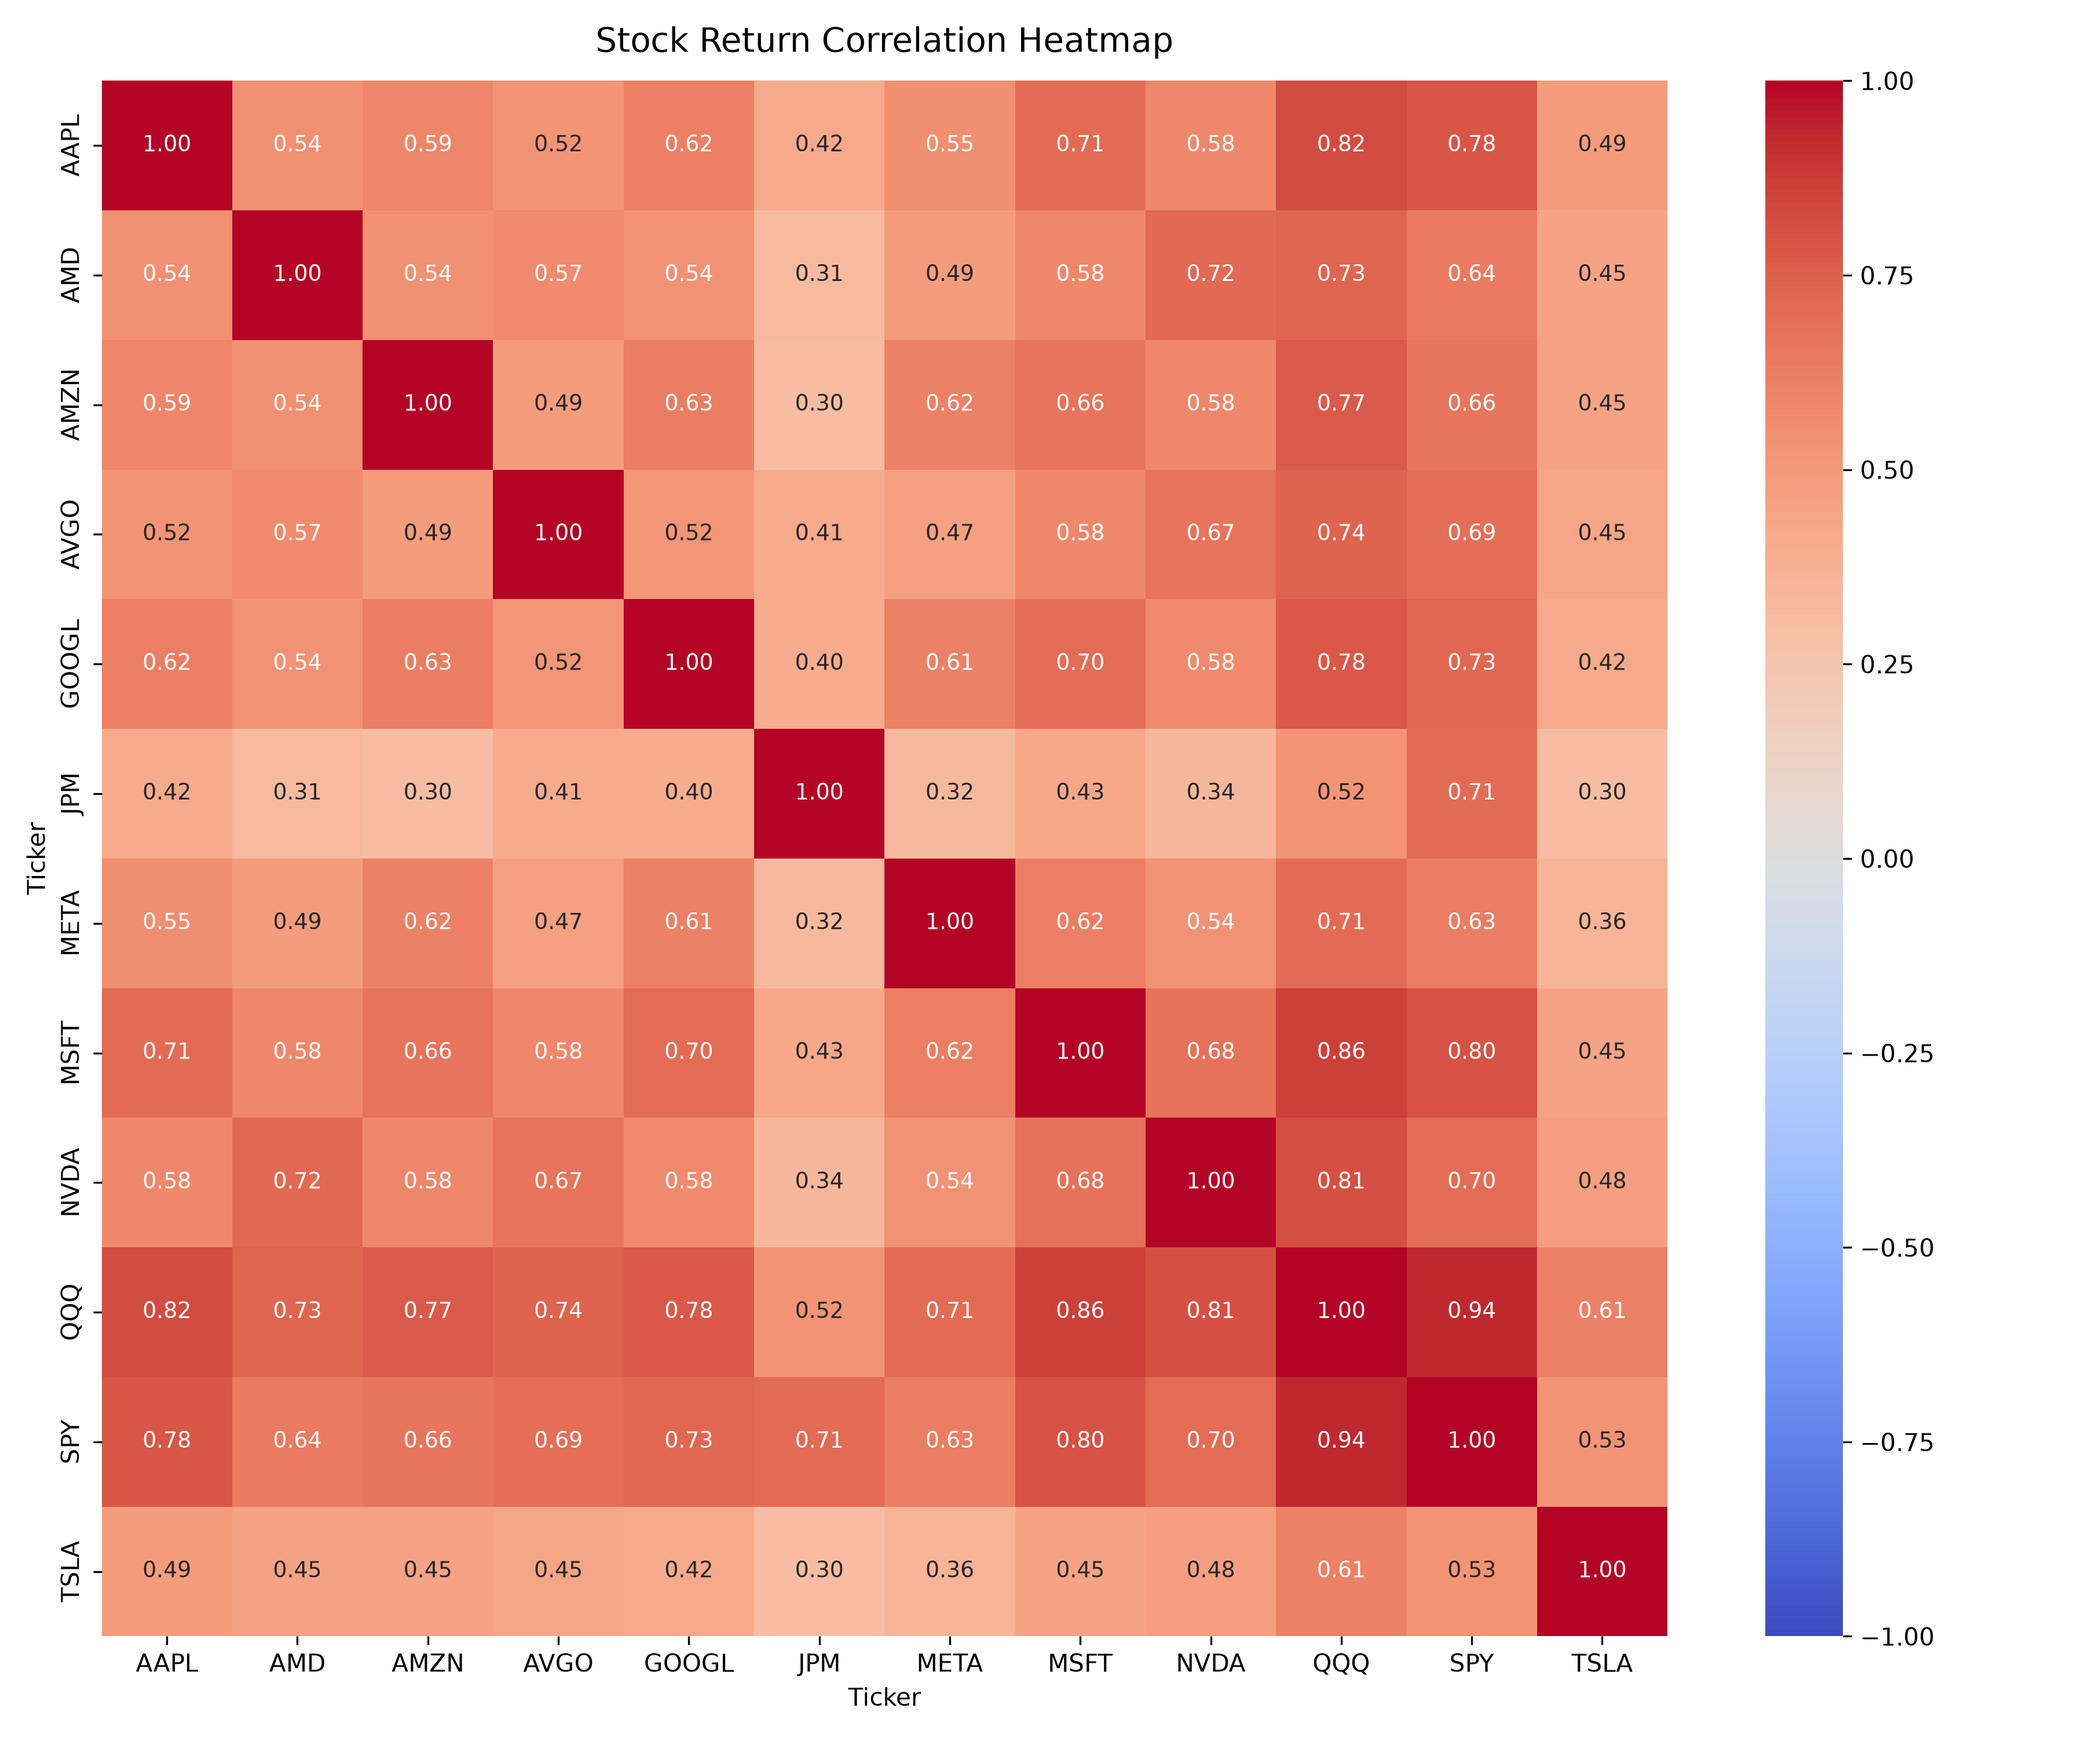
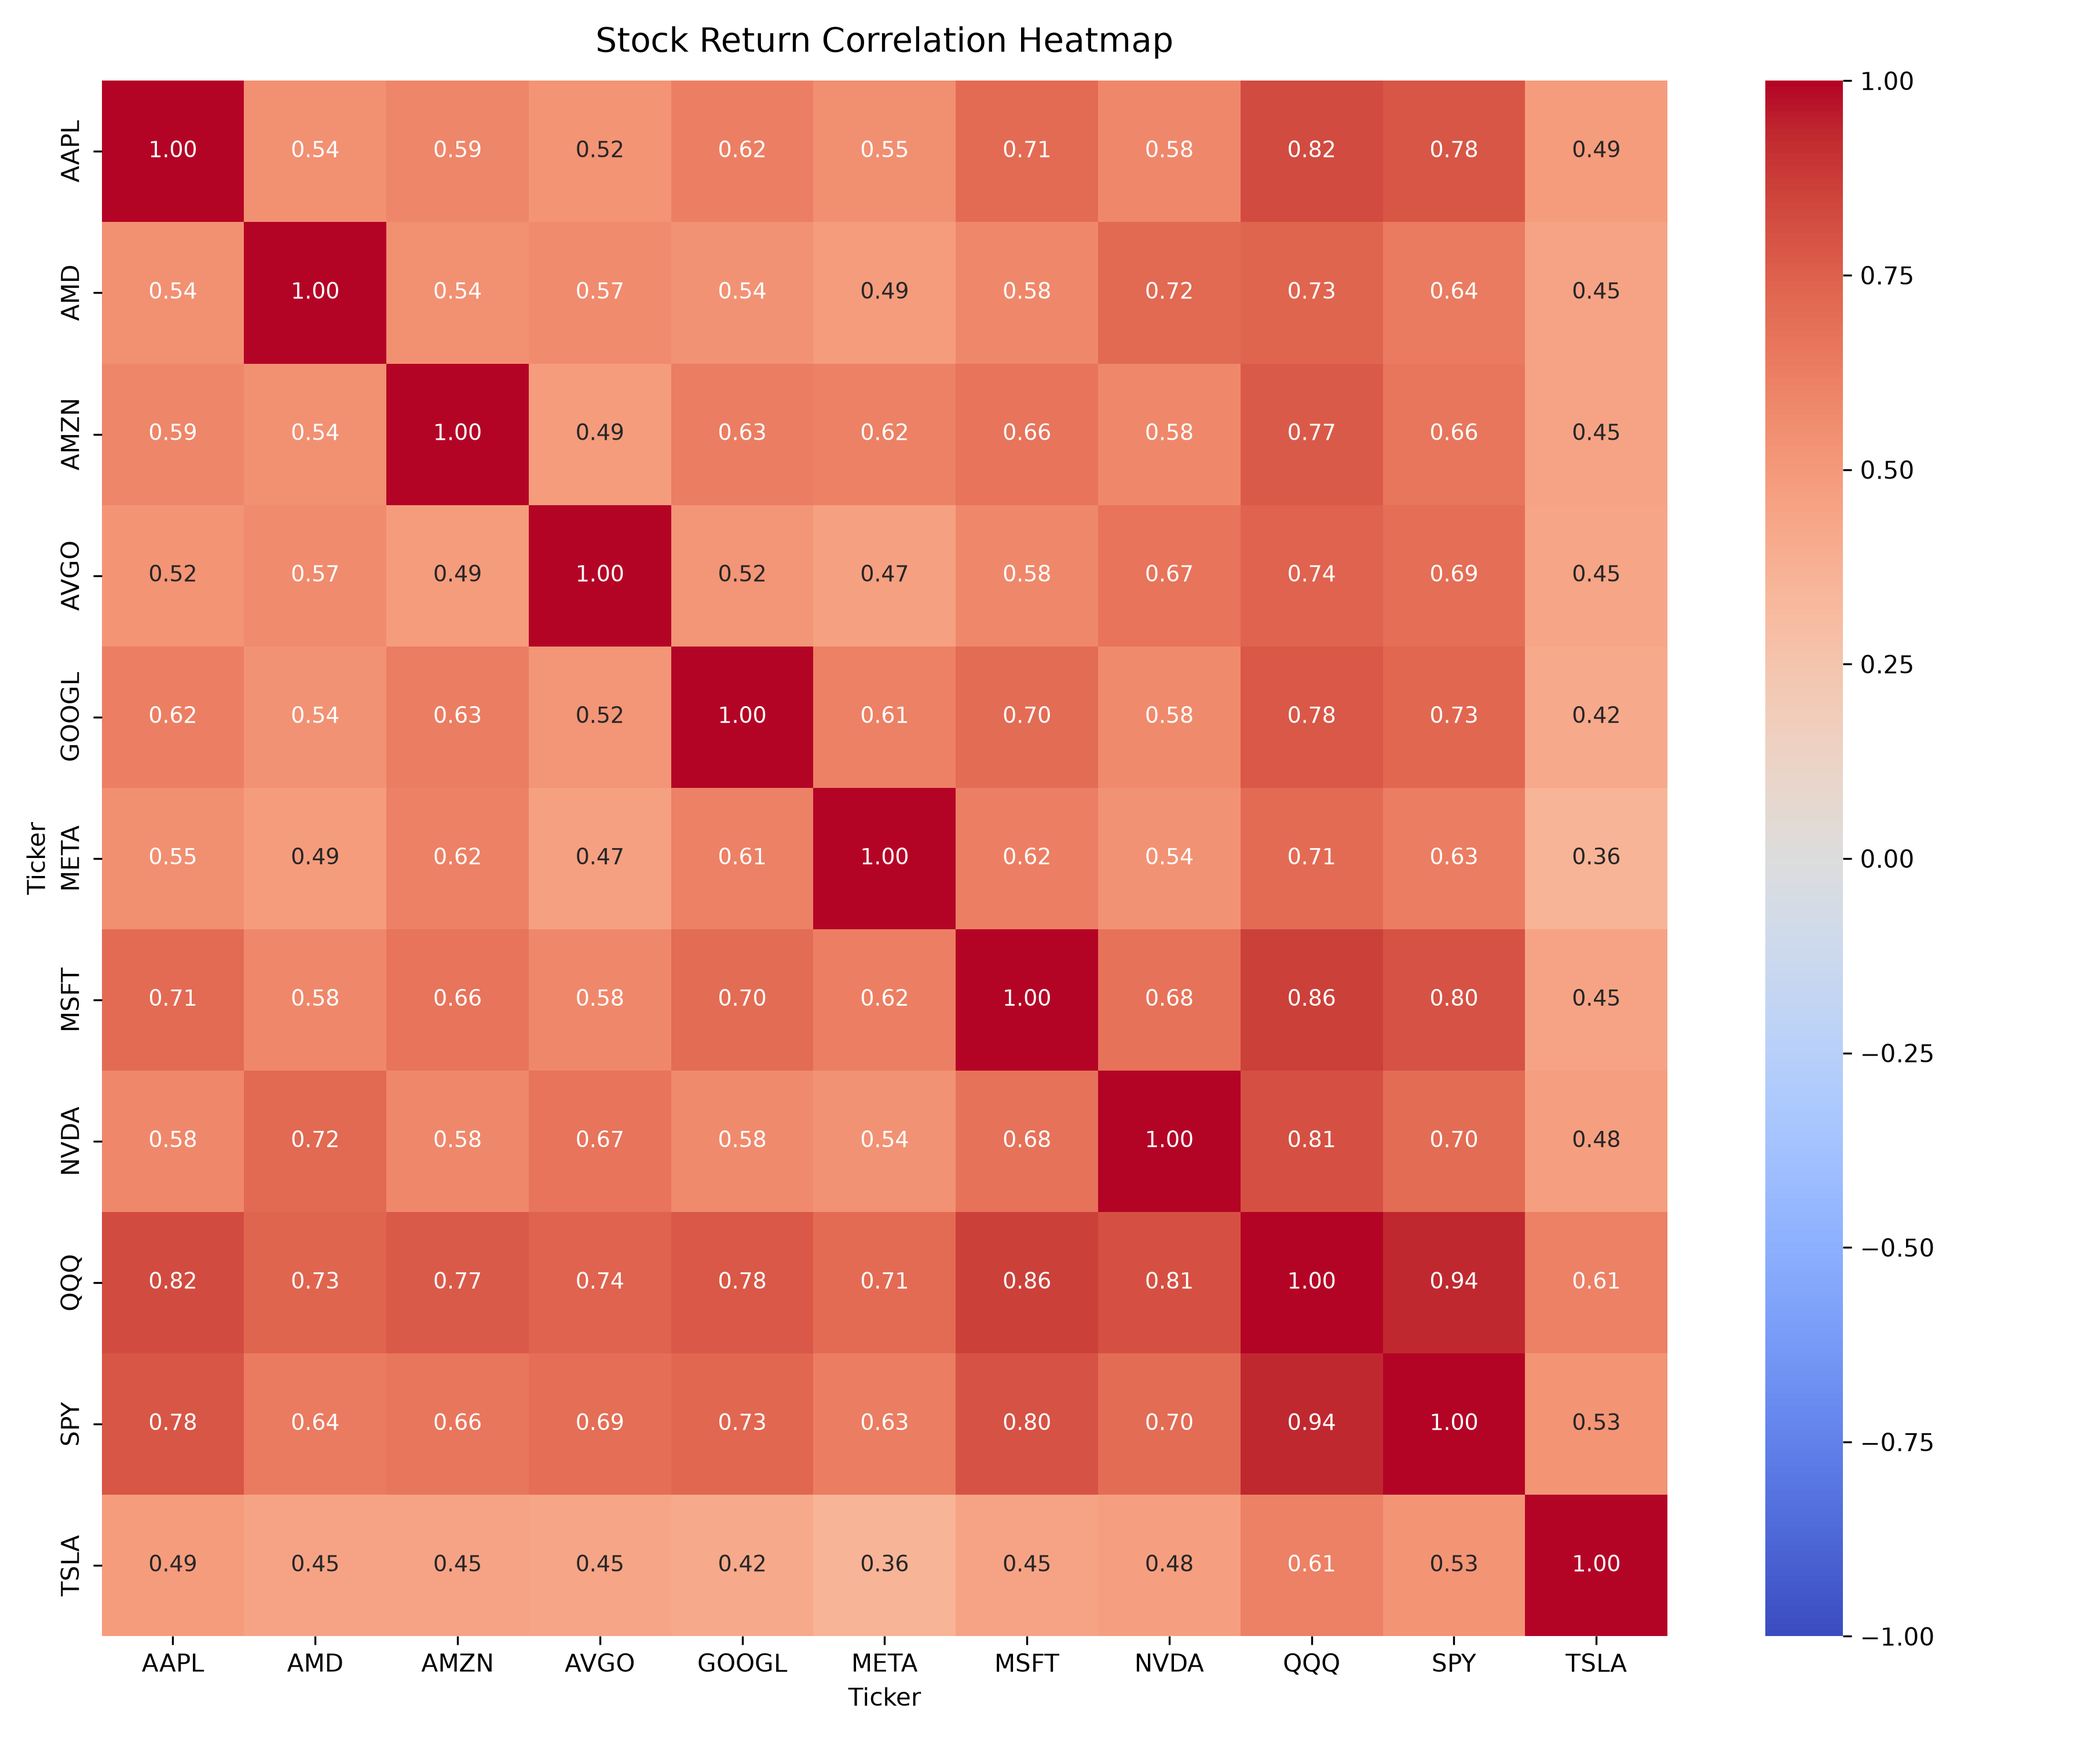
JPM tolto

diff --git a/src/stock_heatmap.py b/src/stock_heatmap.py
@@ -4,7 +4,7 @@ import matplotlib.pyplot as plt
 import numpy as np
 
 #1. Prezzi di chiusura
-tickers = ["AAPL", "MSFT", "TSLA", "GOOGL", "AMZN", "NVDA", "AMD", "META", "JPM", "SPY", "QQQ", "AVGO"]
+tickers = ["AAPL", "MSFT", "TSLA", "GOOGL", "AMZN", "NVDA", "AMD", "META", "SPY", "QQQ", "AVGO"]
 data = yf.download(tickers, start = "2020-01-01", end = "2026-01-01", auto_adjust=True)["Close"]
 
 # 2. Calcolo dei rendimenti e della matrice di correlazione
